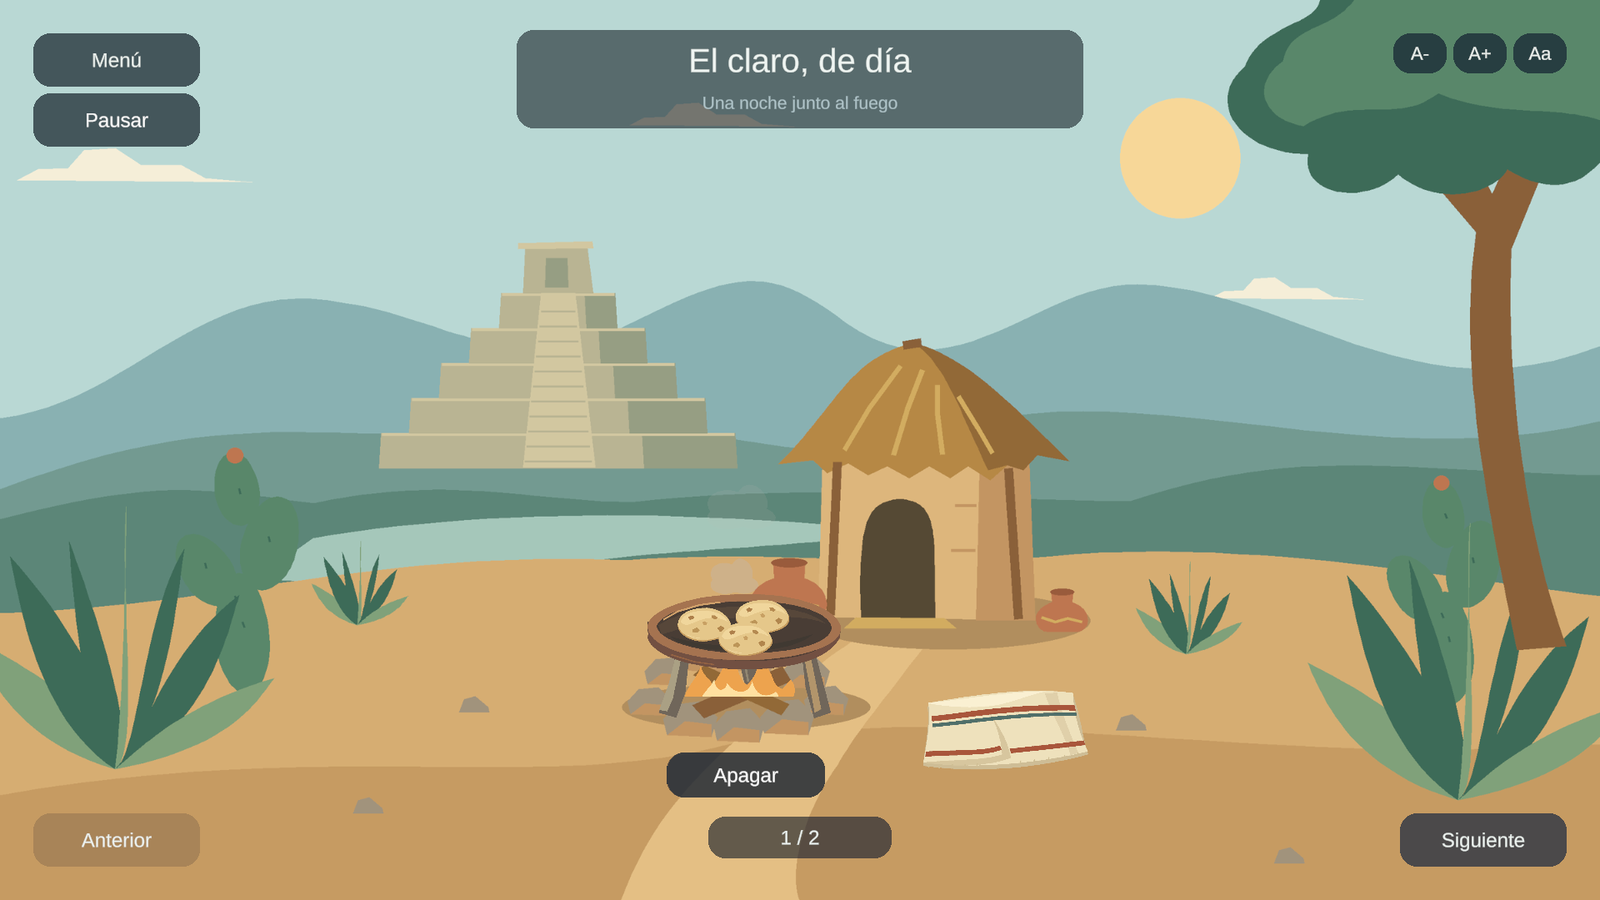
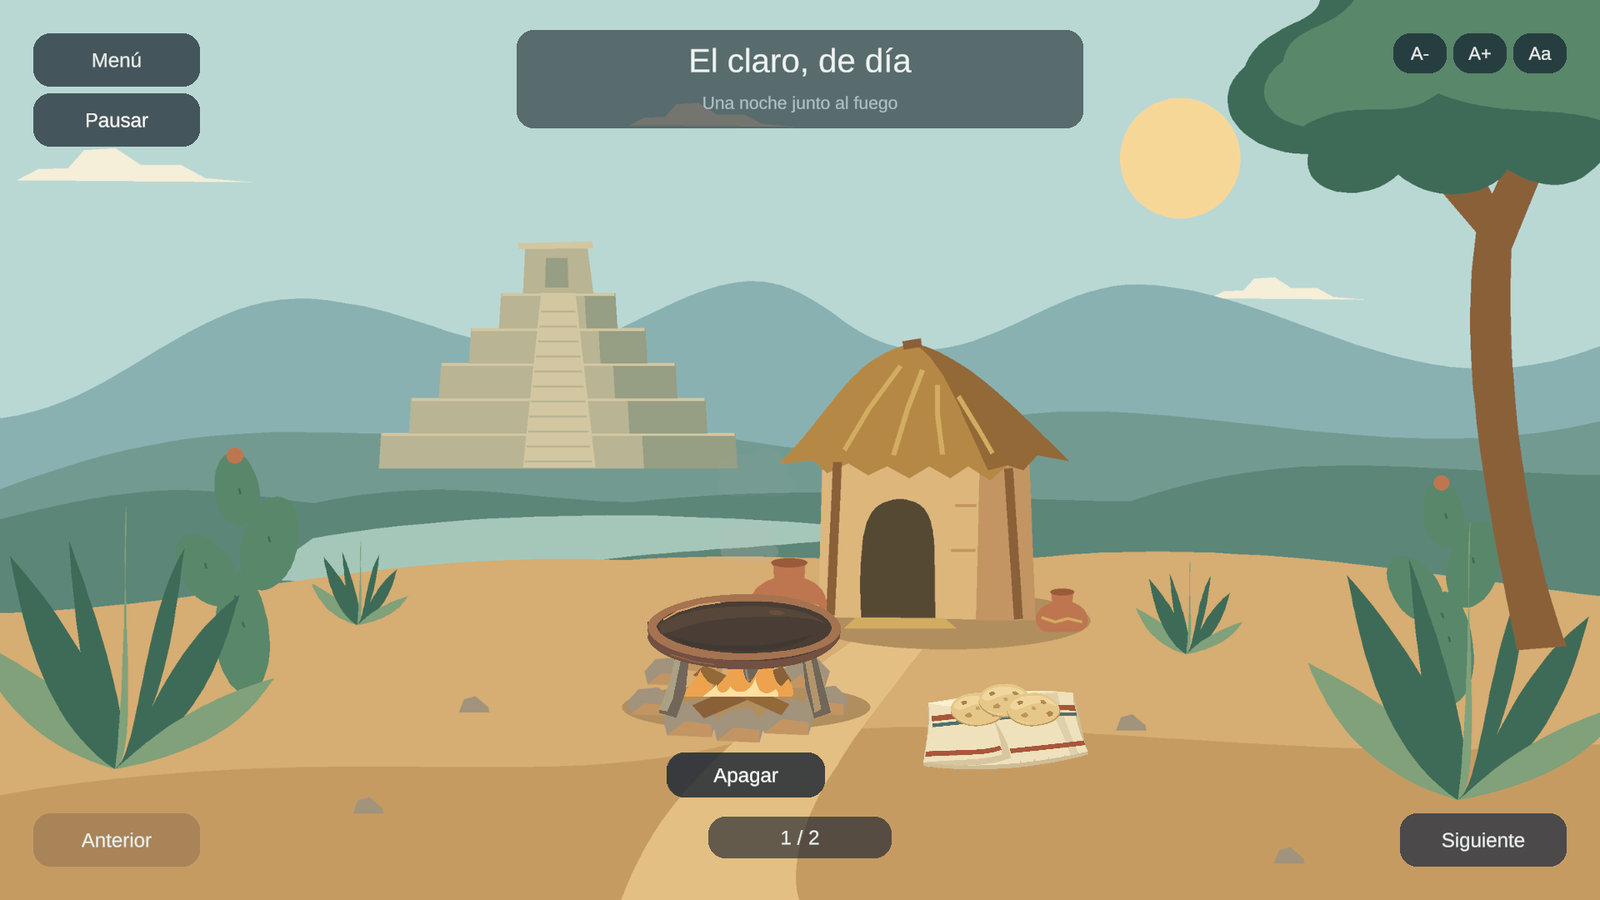
Agrega la detección de colisiones entre el comal y la fogata con Physics2D y esconde la pata trasera detrás de la leña

Changed region(s): [[0.4062, 0.6533, 0.5, 0.7778], [0.5938, 0.7467, 0.6875, 0.8089]]

diff --git a/Assets/Scripts/ColisionComal.cs b/Assets/Scripts/ColisionComal.cs
@@ -1,0 +1,71 @@
+using UnityEngine;
+
+[RequireComponent(typeof(BoxCollider2D), typeof(Rigidbody2D))]
+public class ColisionComal : MonoBehaviour
+{
+    [SerializeField] private BoxCollider2D propio, areaFuego;
+    [SerializeField] private Fogata fogata;
+    [SerializeField] private GameObject llama, llamaBaja;
+    [SerializeField] private GameObject[] soportes;
+    private Rect rectPropio, rectArea;
+    public bool SobreFogata { get; private set; }
+
+    private void Awake() { Sincronizar(); RegistrarCajas("inicio"); }
+    private void FixedUpdate() { ActualizarCajas(); Physics2D.SyncTransforms(); }
+    private void LateUpdate() { ActualizarCajas(); Physics2D.SyncTransforms(); }
+
+    public void Sincronizar()
+    {
+        Canvas.ForceUpdateCanvases();
+        ActualizarCajas();
+        Physics2D.SyncTransforms();
+    }
+
+    private void ActualizarCajas()
+    {
+        var a = ((RectTransform)propio.transform).rect;
+        var b = ((RectTransform)areaFuego.transform).rect;
+        if (a == rectPropio && b == rectArea) return;
+        rectPropio = a; rectArea = b;
+        Ajustar(propio, a); Ajustar(areaFuego, b);
+        Physics2D.SyncTransforms();
+        RegistrarCajas("rectangulo");
+    }
+
+    private static void Ajustar(BoxCollider2D caja, Rect rect)
+    {
+        caja.size = rect.size;
+        caja.offset = rect.center;
+    }
+
+    private void OnTriggerEnter2D(Collider2D otro)
+    {
+        if (otro == areaFuego) Cambiar(true, "enter");
+    }
+    private void OnTriggerExit2D(Collider2D otro)
+    {
+        if (otro == areaFuego) Cambiar(false, "exit");
+    }
+    private void Cambiar(bool sobre, string evento)
+    {
+        SobreFogata = sobre;
+        fogata.ColocarComal(sobre);
+        int visibles = 0;
+        foreach (var soporte in soportes) if (soporte.activeSelf) visibles++;
+        Debug.Log($"[ColisionComal] {evento} SobreFogata={SobreFogata}");
+        Debug.Log($"[ColisionComal] estado ConComal={fogata.ConComal} Llama={llama.activeSelf} LlamaBaja={llamaBaja.activeSelf} Soportes={visibles}");
+    }
+
+    private void RegistrarCajas(string motivo)
+    {
+        foreach (var caja in new[] { propio, areaFuego })
+        {
+            var esquinas = new Vector3[4];
+            ((RectTransform)caja.transform).GetWorldCorners(esquinas);
+            var min = RectTransformUtility.WorldToScreenPoint(null, esquinas[0]);
+            var max = RectTransformUtility.WorldToScreenPoint(null, esquinas[2]);
+            var bounds = caja.bounds;
+            Debug.Log($"[ColisionComal] {motivo} {caja.name} rect={min:F3}..{max:F3} collider={(Vector2)bounds.min:F3}..{(Vector2)bounds.max:F3}");
+        }
+    }
+}

diff --git a/Assets/Scripts/EncajeObjeto.cs b/Assets/Scripts/EncajeObjeto.cs
@@ -1,6 +1,6 @@
 using UnityEngine;
 
-// Encaje por una zona de UI. Conserva el arrastre libre fuera de ella.
+// El comal consulta la física; las tortillas conservan su zona de UI.
 [RequireComponent(typeof(ArrastreSprite))]
 public class EncajeObjeto : MonoBehaviour
 {
@@ -8,24 +8,51 @@ public class EncajeObjeto : MonoBehaviour
     [SerializeField] private Fogata fogata;
     [SerializeField] private EncajeObjeto[] seguidores;
     private ArrastreSprite arrastre;
+    private ColisionComal colision;
+    private Coroutine espera;
     public bool Colocado { get; private set; }
-    private void Awake() { arrastre = GetComponent<ArrastreSprite>(); }
+    private void Awake() { arrastre = GetComponent<ArrastreSprite>(); colision = GetComponent<ColisionComal>(); }
 
     public void Retirar()
     {
         Colocado = false;
-        if (fogata != null) fogata.ColocarComal(false);
+        if (espera != null) { StopCoroutine(espera); espera = null; }
+        if (colision == null && fogata != null) fogata.ColocarComal(false);
         foreach (var seguidor in seguidores)
             if (seguidor.Colocado) seguidor.transform.SetAsLastSibling();
     }
 
     public void IntentarEncajar()
     {
+        if (colision != null)
+        {
+            if (espera != null) StopCoroutine(espera);
+            colision.Sincronizar();
+            espera = StartCoroutine(EsperarColision());
+            return;
+        }
         Vector2 punto = RectTransformUtility.WorldToScreenPoint(null, transform.position);
         if (!RectTransformUtility.RectangleContainsScreenPoint(zona, punto, null)) return;
         Colocado = true;
         arrastre.ColocarEn(destino.position);
         if (fogata != null) fogata.ColocarComal(true);
+    }
+
+    private System.Collections.IEnumerator EsperarColision()
+    {
+        // SyncTransforms actualiza las cajas; los eventos llegan en el paso de física.
+        yield return new WaitForFixedUpdate();
+        yield return null;
+        espera = null;
+        if (arrastre.Arrastrando || !colision.SobreFogata) yield break;
+        Colocado = true;
+        arrastre.ColocarEn(destino.position);
+        colision.Sincronizar();
+    }
+
+    private void OnDisable()
+    {
+        if (espera != null) { StopCoroutine(espera); espera = null; }
     }
 
     private void LateUpdate()

diff --git a/README.md b/README.md
@@ -20,18 +20,19 @@ Cada actividad continúa este mismo proyecto. Las etiquetas identifican el estad
 | 2.2. El primer escenario | "Una noche junto al fuego": escena de día y de noche, navegación entre escenas y páginas, controles anclados | [act-2.2](https://github.com/hiramAcevedo/ih743_Aplicacion_Interactiva_2D/tree/act-2.2) |
 | 2.3. Programación de botones | Objetos arrastrables con encaje, fuego controlable en ambas páginas, piedra con doble clic y control de fuentes | [act-2.3](https://github.com/hiramAcevedo/ih743_Aplicacion_Interactiva_2D/tree/act-2.3) |
 | 2.4. El bucle de juego y la animación | Cinco bucles de animación de ocho cuadros (llama, llama baja, humo, luciérnagas, halo de la piedra), máscara en la base del fuego y bucle de juego con botón Pausar | [act-2.4](https://github.com/hiramAcevedo/ih743_Aplicacion_Interactiva_2D/tree/act-2.4) |
+| 2.5. Detección de colisiones | Colisión real entre el comal y la fogata: el comal decide el estado de la llama al entrar y salir del área del fuego, con colisionadores alineados a los dibujos y sensores de Physics2D | [act-2.5](https://github.com/hiramAcevedo/ih743_Aplicacion_Interactiva_2D/tree/act-2.5) |
 
-## Vista del escenario en la actividad 2.4
+## Vista del escenario en la actividad 2.5
 
-Capturas de Game view a 1920x1080, tomadas durante la prueba de la entrega 2.4.
+Capturas de Game view a 1920x1080, tomadas durante la prueba de la entrega 2.5.
 
-![El claro, de día: la fogata encendida con el comal sobre sus apoyos, la llama baja, el humo subiendo y el botón Pausar bajo Menú](Capturas/dia.png)
+![El claro, de día: el comal sobre la fogata con la llama baja encendida y el humo subiendo](Capturas/dia.png)
 
-De día, el comal está acomodado sobre la fogata con las tortillas encima; la llama baja parpadea debajo del comal y el humo sube y se desvanece. El botón "Pausar" congela los bucles.
+De día, el comal está sobre la fogata y su presencia decide el estado del fuego: la llama baja se enciende debajo y los tres apoyos aparecen. Al retirarlo, la fogata vuelve a la llama alta.
 
 ![La fogata, de noche: la llama y el humo animados, la luz sobre el suelo, las luciérnagas parpadeando con fases distintas y el halo del chalchihuite pulsando](Capturas/noche.png)
 
-De noche, las 34 luciérnagas parpadean cada una en su momento y el halo del chalchihuite late junto a las rocas.
+De noche, las 34 luciérnagas parpadean cada una en su momento y el halo del chalchihuite late junto a las rocas. La página de noche no cambia en esta actividad.
 
 ## Abrir y probar
 
@@ -53,8 +54,9 @@ De noche, las 34 luciérnagas parpadean cada una en su momento y el halo del cha
 11. Presiona Siguiente: aparece "La fogata, de noche", con "2 / 2", la llama encendida y Siguiente desactivado. "Apagar" oculta la llama y la luz sobre el suelo y la pared; "Encender" las restaura. Haz doble clic sobre el chalchihuite para alternar su halo y arrástralo: la sombra desaparece al levantarlo. Un arrastre no cambia el brillo. Anterior regresa al día y conserva las posiciones y el fuego de esa página; Menú vuelve a PrimeraVentana.
 12. Con el fuego encendido, observa la fogata: la llama cambia de forma unas doce veces por segundo y el humo sube en bocanadas que se desvanecen. Con el comal puesto, la llama baja parpadea debajo del comal. De noche, las luciérnagas parpadean cada una a su ritmo y el halo del chalchihuite pulsa. Cada bucle recorre ocho cuadros y vuelve al primero sin salto.
 13. Presiona "Pausar", bajo "Menú": todos los bucles se congelan en su cuadro actual y el humo deja de mecerse; el botón pasa a "Reanudar". En pausa el arrastre y los demás botones siguen funcionando. "Reanudar" vuelve a poner todo en marcha. La pausa se conserva al cambiar de página.
-14. En Game view, prueba 1920x1080, 1024x768 y 900x1200. Se pueden añadir desde el botón "+" del selector de resolución, con Type = Fixed Resolution. Revisa ambas páginas y los tres botones de fuente en sus extremos. El fondo debe cubrir la vista y los textos y controles deben permanecer dentro de la ventana, sin superponerse. En vertical se recorta parte del paisaje lateral; el jacal y la fogata permanecen visibles.
-15. Presiona Play de nuevo para detener la ejecución.
+14. Arrastra el comal y suéltalo fuera de la fogata: la llama sigue alta y los apoyos no aparecen. Acércalo al círculo de piedras: en cuanto su caja entra en el área del fuego, aunque no lo hayas soltado, la llama se vuelve baja y aparecen los tres apoyos; al soltarlo, el comal se acomoda sobre ellos. Retíralo y todo vuelve a como estaba. Ese cambio lo decide la colisión, no la posición del puntero: el área del fuego es un sensor invisible dentro de la llama, y el comal lleva su propio cuerpo y su colisionador. El botón "Encender" y "Apagar" sigue funcionando igual, y las tortillas siguen encajando en el comal como antes.
+15. En Game view, prueba 1920x1080, 1024x768 y 900x1200. Se pueden añadir desde el botón "+" del selector de resolución, con Type = Fixed Resolution. Revisa ambas páginas y los tres botones de fuente en sus extremos. El fondo debe cubrir la vista y los textos y controles deben permanecer dentro de la ventana, sin superponerse. En vertical se recorta parte del paisaje lateral; el jacal y la fogata permanecen visibles.
+16. Presiona Play de nuevo para detener la ejecución.
 
 ## Organización
 
@@ -66,8 +68,9 @@ De noche, las 34 luciérnagas parpadean cada una en su momento y el halo del cha
 - `Assets/Scripts/Paginas.cs`: alternancia de páginas, indicador y límites de navegación.
 - `Assets/Scripts/ArrastreSprite.cs`: arrastre de una imagen de UI con mouse o dedo mediante `IBeginDragHandler`, `IDragHandler` e `IEndDragHandler` (actividad 2.3). Está en el comal, las tres tortillas y el chalchihuite.
 - `Assets/Scripts/Fogata.cs`: enciende y apaga la llama y la luz desde OnClick; cambia la forma de la llama cuando el comal está colocado.
-- `Assets/Scripts/EncajeObjeto.cs`: acomoda el comal en la fogata y las tortillas en el comal, con arrastre libre fuera de esas zonas.
+- `Assets/Scripts/EncajeObjeto.cs`: acomoda el comal en la fogata y las tortillas en el comal. En el comal la condición es la colisión con el área del fuego; en las tortillas sigue siendo su zona de encaje.
 - `Assets/Scripts/BrilloPiedra.cs`: alterna el halo por doble clic y retira la sombra al arrastrar.
+- `Assets/Scripts/ColisionComal.cs`: el comal contra el área de la fogata (actividad 2.5). Detecta la entrada y la salida con `OnTriggerEnter2D` y `OnTriggerExit2D`, avisa a `Fogata` para que cambie la forma de la llama y ajusta el tamaño de los dos colisionadores al de su imagen cuando cambia la proporción de la pantalla.
 - `Assets/Scripts/BucleEscena.cs`: el bucle de juego (actividad 2.4). En `Update` varía la velocidad de las llamas con ruido, mece el humo y controla la pausa; "Pausar" y "Reanudar" lo llaman desde OnClick.
 - `Assets/Scripts/Luciernaga.cs`: al activarse, arranca la animación de cada luciérnaga en una fase distinta, para que no parpadeen al unísono.
 - `Assets/Animaciones/`: un clip y un controlador por bucle (Llama, LlamaBaja, Humo, Luciernaga, HaloPiedra), cada clip con ocho keys de sprite y Loop Time.
@@ -89,6 +92,10 @@ Cada bucle de animación es un `AnimationClip` que cambia el sprite de una image
 
 El bucle de juego es `BucleEscena.cs`: cada cuadro acumula el tiempo de la escena, modula la velocidad de las llamas entre 0.85 y 1.15 con ruido Perlin (por eso el fuego no parpadea con regularidad mecánica) y desplaza el humo con una senoide. La pausa pone a cero la velocidad de todos los Animators y congela el vaivén sin tocar `Time.timeScale`, de modo que la interfaz sigue respondiendo.
 
+La detección de colisiones usa el motor de física en dos dimensiones sobre la interfaz: el comal lleva un cuerpo cinemático sin gravedad y un colisionador de caja marcado como sensor, y la fogata un área con su propio cuerpo estático. Al entrar y salir, Unity llama a `OnTriggerEnter2D` y `OnTriggerExit2D`, y ese aviso es el que cambia el estado del fuego. El resto del escenario no tiene física: el arrastre sigue moviendo las anclas del rectángulo, y el sensor solo mira si las dos cajas se tocan.
+
+El colisionador del comal coincide con su dibujo y el área del fuego es un núcleo del tamaño de la llama, no el círculo de piedras: si abarcara todo el fuego, el comal en su posición inicial ya lo tocaría y la fogata arrancaría con la llama baja. Los dos tamaños se recalculan desde el rectángulo de cada imagen, porque las anclas son proporcionales al fondo y la proporción de la pantalla cambia ese rectángulo. Así la caja sigue pegada al dibujo en 1920x1080, en 1024x768 y en 900x1200.
+
 Se versionan `Assets`, `Packages` y `ProjectSettings`, incluidos los archivos `.meta`. `Library`, `Temp`, `Logs`, `UserSettings` y compilaciones quedan fuera por el `.gitignore`.
 
 ## Material consultado
@@ -100,6 +107,8 @@ Natalie C. (2017, 14 de julio). [Interactive book 02 Aspect ratio and Artwork](h
 Natalie C. (2017, 7 de julio). [Interactive book 04 Scripting Navigation](https://www.youtube.com/watch?v=4M9zbOhBYUk) y (2017, 28 de julio) [Interactive Book5 dragging a sprite](https://www.youtube.com/watch?v=vA63AYdV2Os). Se aplican los scripts pegados a objetos y llamados desde OnClick, y las interfaces de arrastre del EventSystem. La conversión de coordenadas se adapta a un Canvas en Screen Space Overlay.
 
 Natalie C. (2017, 28 de julio). [Interactive book 6 Loop Animation](https://www.youtube.com/watch?v=2eB3Nq9f2OY) y (2017, 27 de julio) [Interactive Book 07 masking](https://www.youtube.com/watch?v=jv4eMPMQc9k). Se aplican el clip de animación por keys de sprite con Loop Time y la máscara que recorta la base de las llamas. Los clips se generan por script del editor con el mismo resultado que la ventana Animation.
+
+Natalie C. (2017, 27 de julio). [Interactive Book 08 Collision detection](https://www.youtube.com/watch?v=0SpFBVV0WAo). Se aplica el cuerpo sin gravedad con su colisionador de caja, el sensor en el objeto que se arrastra y el del área que lo recibe, y la comprobación en consola de que las áreas se están tocando.
 
 La fuente Liberation Sans conserva su licencia en `Assets/TextMesh Pro/Fonts/LiberationSans - OFL.txt`. Alegreya, de Juan Pablo del Peral (Huerta Tipográfica), se obtuvo de [Google Fonts](https://fonts.google.com/specimen/Alegreya) bajo la SIL Open Font License 1.1; la licencia está en `Assets/Fonts/Alegreya - OFL.txt`. Los videos se enlazan en YouTube; no se incluyen sus archivos de audio o video.
 
